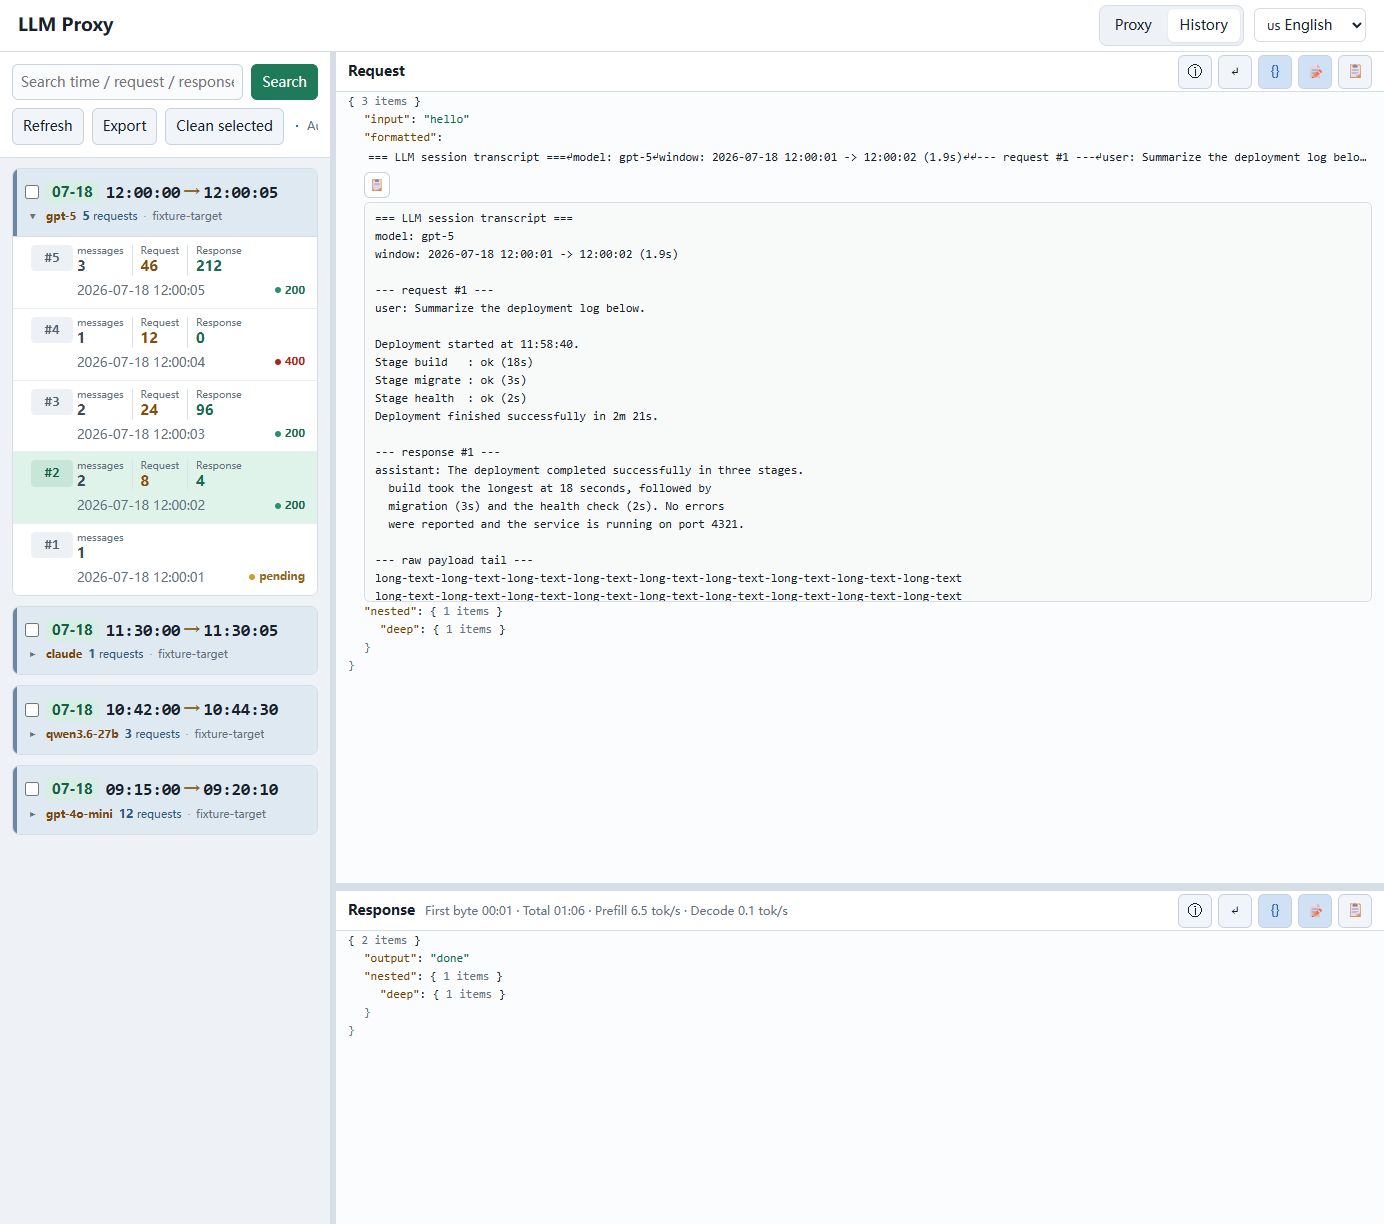
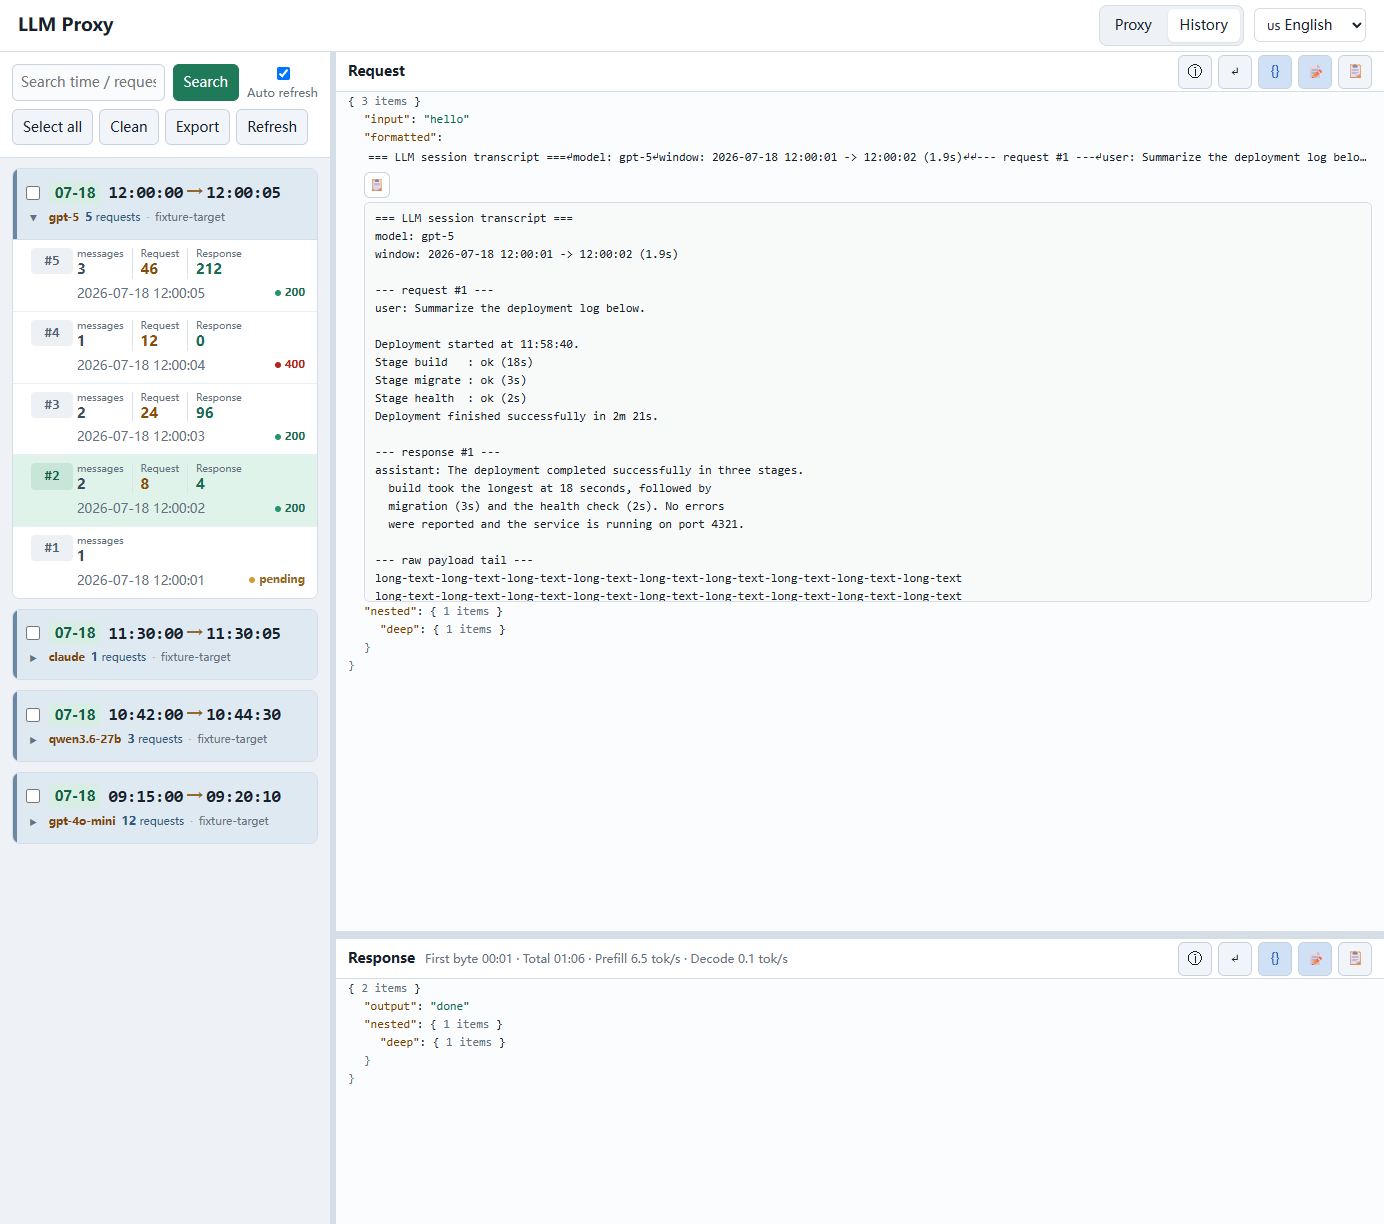
feat(admin): add select-all toggle and compact single-row log toolbar
- Add a Select all / Deselect all toggle button to the history log list
- Move the auto-refresh switch to the search row with its label stacked
  under the checkbox to save horizontal space
- Reorder the toolbar to: select all, clean selected, export, refresh and
  keep it on a single row (wrapping only when the sidebar is very narrow)
- Shorten the EN cleanup label to "Clean" so all four buttons fit
- Update the narrow-sidebar test to assert the auto-refresh label stays on
  one line while the search input shrinks
- Regenerate the history page README screenshots and baseline hashes
- Update README (en/cn) and the functional spec accordingly

diff --git a/src/admin/static/app.js b/src/admin/static/app.js
@@ -19,6 +19,8 @@ const translations = {
     exportLogs: "导出",
     cleanupLogs: "清理",
     cleanupSelectedLogs: "清理选中",
+    selectAllLogs: "全选",
+    clearSelectedLogs: "取消全选",
     selectLogGroup: "选择任务",
     noSelectedLogs: "请先选择要清理的任务",
     autoRefresh: "自动刷新",
@@ -101,7 +103,9 @@ const translations = {
     refresh: "Refresh",
     exportLogs: "Export",
     cleanupLogs: "Clean",
-    cleanupSelectedLogs: "Clean selected",
+    cleanupSelectedLogs: "Clean",
+    selectAllLogs: "Select all",
+    clearSelectedLogs: "Deselect all",
     selectLogGroup: "Select task",
     noSelectedLogs: "Select tasks to clean first",
     autoRefresh: "Auto refresh",
@@ -234,6 +238,7 @@ function applyLanguage() {
   updateMetaButton("request");
   updateMetaButton("response");
   updateResponseTiming();
+  updateSelectAllLogsButton();
 }
 function setLanguage(language) {
   if (!translations[language]) return;
@@ -563,6 +568,24 @@ function scheduleLogRefresh(delay = 3000) {
     loadLogs({ quiet: true }).catch((e) => toast(e.message));
   }, delay);
 }
+function allLogGroupsSelected() {
+  return (
+    state.logGroups.length > 0 &&
+    state.logGroups.every((group) => state.selectedLogGroups[group.id])
+  );
+}
+function updateSelectAllLogsButton() {
+  $("selectAllLogs").textContent = t(
+    allLogGroupsSelected() ? "clearSelectedLogs" : "selectAllLogs",
+  );
+}
+function toggleSelectAllLogs() {
+  const selectAll = !allLogGroupsSelected();
+  state.logGroups.forEach((group) => {
+    state.selectedLogGroups[group.id] = selectAll;
+  });
+  renderLogs();
+}
 function logGroupsSignature(groups) {
   return (groups || []).map((group) => logGroupSummarySignature(group)).join("\n");
 }
@@ -776,6 +799,7 @@ function renderLogs() {
     </section>`,
       )
       .join("") || `<div class="empty">${escapeHtml(t("noLogs"))}</div>`;
+  updateSelectAllLogsButton();
   const moreHtml = state.logsHasMore
     ? `<button class="load-more" data-load-more>${escapeHtml(t("loadMore"))} (${state.logGroups.length}/${state.logsTotal})</button>`
     : "";
@@ -1309,10 +1333,12 @@ $("searchLogs").addEventListener("click", () => {
 });
 $("exportLogs").addEventListener("click", () => exportLogs().catch((e) => toast(e.message)));
 $("cleanupLogs").addEventListener("click", () => cleanupLogs().catch((e) => toast(e.message)));
+$("selectAllLogs").addEventListener("click", () => toggleSelectAllLogs());
 $("autoRefreshLogs").addEventListener("change", () => scheduleLogRefresh(250));
 $("logItems").addEventListener("click", (event) => {
   if (event.target.matches("[data-select-group]")) {
     state.selectedLogGroups[event.target.dataset.selectGroup] = event.target.checked;
+    updateSelectAllLogsButton();
     return;
   }
   const group = event.target.closest("[data-group-id]");

diff --git a/test-node/ui/admin-ui.test.ts b/test-node/ui/admin-ui.test.ts
@@ -1161,7 +1161,7 @@ describe("admin UI history page", { timeout: UI_TEST_TIMEOUT_MS }, () => {
     expect(await page.evaluate("window.__jsonPaneMutationCount")).toBe(0);
   });
 
-  it("clips the auto refresh label instead of wrapping it when the sidebar narrows", async () => {
+  it("keeps the auto refresh label on one line when the sidebar narrows", async () => {
     await loadAdminPage();
     await Promise.all([
       page.waitForResponse((response) => response.url().includes("/api/logs?")),
@@ -1169,15 +1169,18 @@ describe("admin UI history page", { timeout: UI_TEST_TIMEOUT_MS }, () => {
     ]);
     const span = page.locator(".auto-refresh span");
     const label = page.locator(".auto-refresh");
+    const search = page.locator("#logSearch");
     const fullSpan = await requiredBox(span);
     const fullLabel = await requiredBox(label);
+    const fullSearch = await requiredBox(search);
     await page.evaluate(
       'document.querySelector("#logs").style.setProperty("--sidebar-w", "260px")',
     );
-    const clippedSpan = await requiredBox(span);
-    expect(clippedSpan.height).toBeCloseTo(fullSpan.height, 0);
-    expect(clippedSpan.width).toBeLessThan(fullSpan.width);
+    const narrowSpan = await requiredBox(span);
+    expect(narrowSpan.height).toBeCloseTo(fullSpan.height, 0);
+    expect(narrowSpan.width).toBeCloseTo(fullSpan.width, 0);
     expect((await requiredBox(label)).height).toBeCloseTo(fullLabel.height, 0);
+    expect((await requiredBox(search)).width).toBeLessThan(fullSearch.width);
   });
 });
 

diff --git a/src/admin/static/index.html b/src/admin/static/index.html
@@ -42,15 +42,16 @@
                   placeholder="搜索时间 / 请求 / 响应 / id"
                 />
                 <button id="searchLogs" class="primary" data-i18n="search">搜索</button>
-              </div>
-              <div class="log-actions">
-                <button id="refreshLogs" data-i18n="refresh">刷新</button>
-                <button id="exportLogs" data-i18n="exportLogs">导出</button>
-                <button id="cleanupLogs" data-i18n="cleanupSelectedLogs">清理选中</button>
                 <label class="auto-refresh" data-i18n-title="autoRefresh">
                   <input id="autoRefreshLogs" type="checkbox" checked />
                   <span data-i18n="autoRefresh">自动刷新</span></label
                 >
+              </div>
+              <div class="log-actions">
+                <button id="selectAllLogs" data-i18n="selectAllLogs">全选</button>
+                <button id="cleanupLogs" data-i18n="cleanupSelectedLogs">清理选中</button>
+                <button id="exportLogs" data-i18n="exportLogs">导出</button>
+                <button id="refreshLogs" data-i18n="refresh">刷新</button>
               </div>
             </div>
             <div id="logItems" class="log-items"></div>

diff --git a/src/admin/static/app.css b/src/admin/static/app.css
@@ -422,23 +422,23 @@ label span {
 }
 .log-search {
   display: grid;
-  grid-template-columns: minmax(0, 1fr) auto;
+  grid-template-columns: minmax(0, 1fr) auto auto;
+  align-items: center;
   gap: 8px;
 }
 .log-actions {
   display: flex;
-  align-items: center;
-  gap: 8px;
-  overflow: hidden;
+  flex-wrap: wrap;
+  gap: 6px;
 }
 .log-actions button {
-  flex: 0 0 auto;
   white-space: nowrap;
 }
 .auto-refresh {
   display: inline-flex;
+  flex-direction: column;
   align-items: center;
-  gap: 6px;
+  gap: 2px;
   min-width: 0;
   color: var(--muted);
   font-size: 12px;
@@ -448,7 +448,6 @@ label span {
 }
 .auto-refresh span {
   white-space: nowrap;
-  overflow: hidden;
 }
 .log-items {
   overflow: auto;

diff --git a/docs/refactoring/ui-visual-baseline.md b/docs/refactoring/ui-visual-baseline.md
@@ -12,8 +12,8 @@
 | --- | --- | --- | --- | --- |
[6 lines of base64/hex data omitted]
 
 哈希复现命令：
 
@@ -40,7 +40,7 @@ sha256sum doc/ui_proxy_cn.png doc/ui_proxy_en.png doc/ui_logs_cn.png doc/ui_logs
 截图中可见的关键基线：
 
 - 左侧为固定宽度 task/request 列表，右侧为上下分隔的 Request/Response。
-- 左侧顶部包含搜索、刷新、导出、清理选中、自动刷新。
+- 左侧顶部包含搜索、自动刷新（文字位于复选框下方）、全选、清理选中、导出、刷新。
 - fixture 包含多个 task：首个 task 展开，其余以单行折叠卡片显示（不同 model 和 request 数）。
 - 每个 task 是浅灰列表区内一张独立的白色圆角卡片，卡片之间用留白分隔。
 - task header 是卡片顶部的蓝灰色块，带加粗左侧色条；左侧控制列中复选框（上）与折叠箭头（下）上下排列，右侧为时间范围和 model/request/target 摘要。header 与请求项列表之间有一条分隔线。

diff --git a/README.md b/README.md
@@ -285,7 +285,7 @@ For OpenAI-compatible and Claude Messages SSE responses, the stored response bod
 
 SSE responses are forwarded to the client line by line as they arrive from the upstream. Non-SSE responses are still forwarded in regular binary chunks.
 
-The History tab can export task logs as `llm-proxy-logs.zip`. The ZIP is generated from SQLite on demand and contains human-readable Markdown plus `request.json` and `response.json` files. Select one or more task groups in the log list, then use cleanup to delete those tasks and their request records from the database.
+The History tab can export task logs as `llm-proxy-logs.zip`. The ZIP is generated from SQLite on demand and contains human-readable Markdown plus `request.json` and `response.json` files. Select one or more task groups in the log list (use the Select all button to select every listed group, which toggles to Deselect all), then use cleanup to delete those tasks and their request records from the database.
 
 ## Backup, Migration, and Rollback
 

diff --git a/docs/software-functional-specification.md b/docs/software-functional-specification.md
@@ -470,10 +470,10 @@ ZIP 当前整体在内存中生成后一次性返回。
 ### 11.3 History 页面交互
 
 - 搜索输入 180 ms 防抖。
-- 手动刷新、导出、清理选中、自动刷新开关。
+- 全选/取消全选、清理选中、导出、手动刷新按钮；搜索行右侧提供自动刷新开关（文字位于复选框下方，纵向排列）。
+- task 可独立勾选用于清理；“全选”按钮选中列表中全部 task，全部选中后按钮切换为“取消全选”，再次点击取消全部选中。
 - 自动刷新默认开启，正常间隔约 3 秒；展开列表中的 pending 请求完成后自动更新并停止轮询。
 - task 默认折叠；点击 task header 展开并按需加载请求列表。
-- task 可独立勾选用于清理。
 - 请求标题显示任务内序号、消息数、Token 数或状态。
 - 当前选中请求使用绿色浅背景。
 - task 列表支持“加载更多”。

diff --git a/README.cn.md b/README.cn.md
@@ -284,7 +284,7 @@ presence_penalty, frequency_penalty, seed
 
 SSE 响应会按上游到达的行逐行转发给客户端。非 SSE 响应仍按普通二进制块转发。
 
-历史日志页面可以将任务日志导出为 `llm-proxy-logs.zip`。ZIP 会从 SQLite 按需生成，包含便于阅读的 Markdown 以及 `request.json`、`response.json` 文件。在日志列表中选择一个或多个任务组后，可以从数据库中清理这些任务及其对应的请求记录。
+历史日志页面可以将任务日志导出为 `llm-proxy-logs.zip`。ZIP 会从 SQLite 按需生成，包含便于阅读的 Markdown 以及 `request.json`、`response.json` 文件。在日志列表中选择一个或多个任务组（可用“全选”按钮选中全部任务，再次点击切换为“取消全选”），然后从数据库中清理这些任务及其对应的请求记录。
 
 ## 数据备份、迁移和回滚
 
